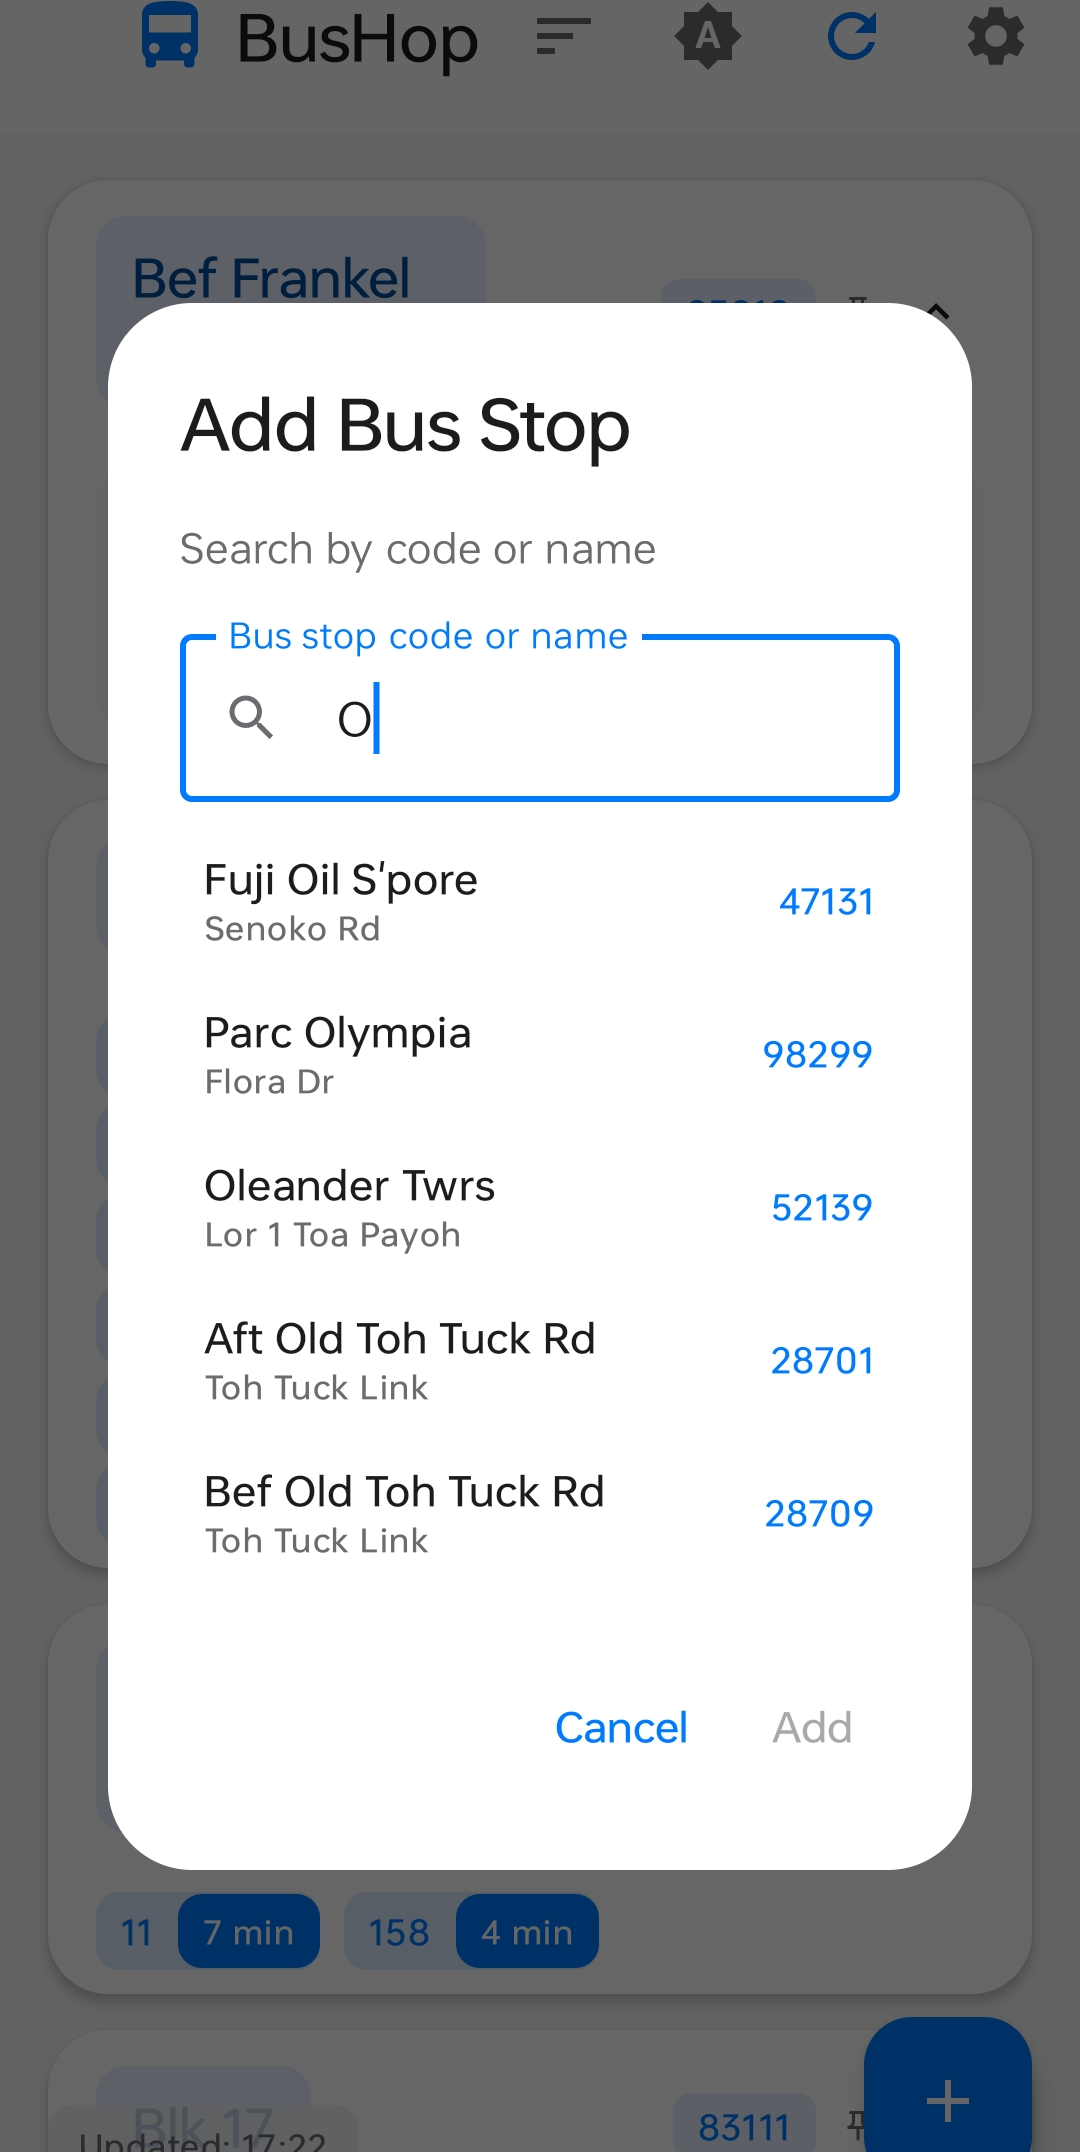
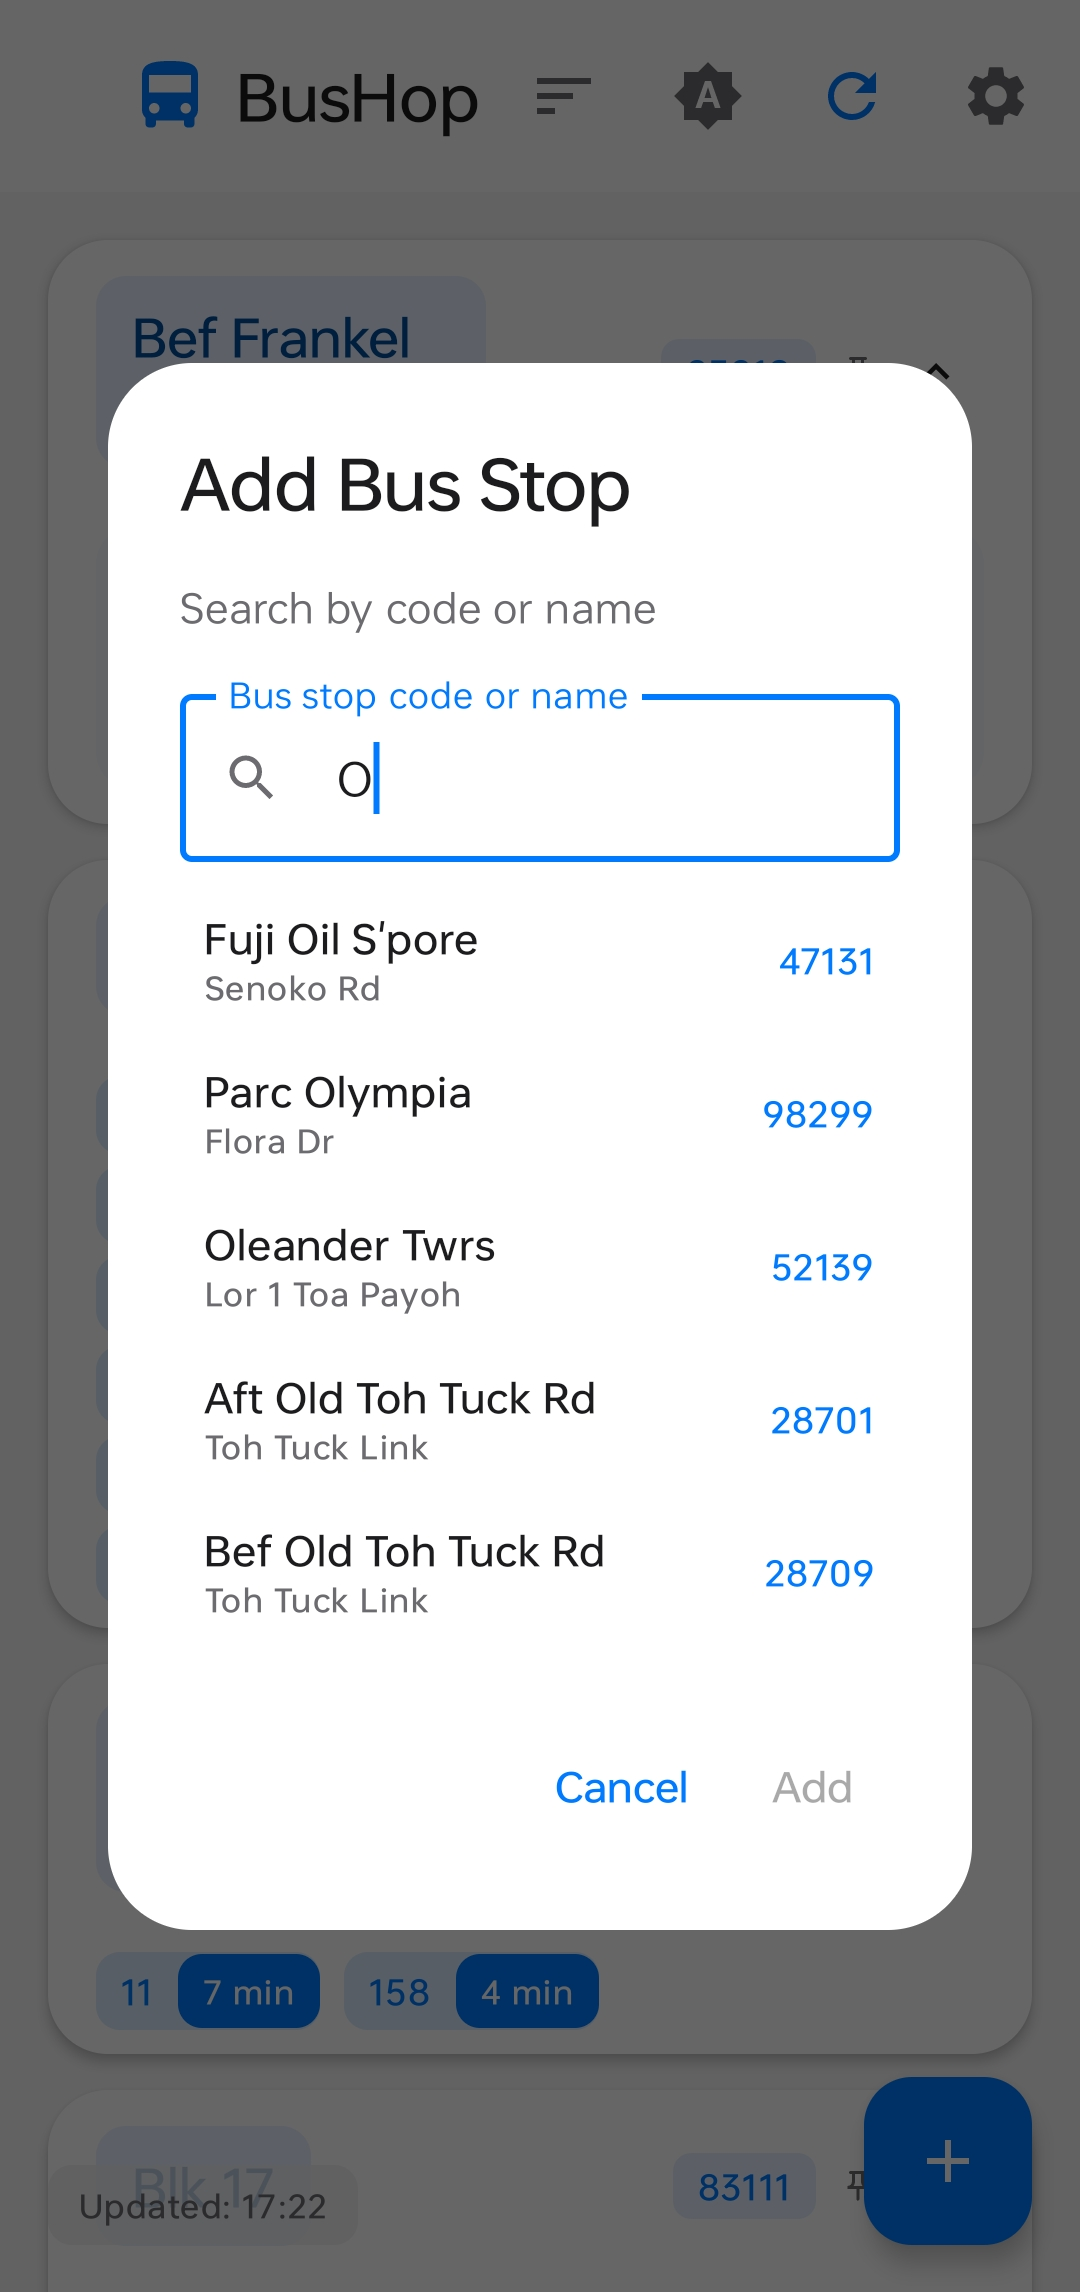
screenshots: use HTML img with matching height so they display equally

diff --git a/README.md b/README.md
@@ -17,10 +17,10 @@
 
 ## Screenshots
 
-| Stops list                                          | Search dialog                                            |
-| --------------------------------------------------- | -------------------------------------------------------- |
-| _Pinned stops at top, arrivals, pull-to-refresh_    | _TokenTrie O(k) search — instant, no network_            |
-| ![Stops list](docs/screenshots/screenshot_main.jpg) | ![Search dialog](docs/screenshots/screenshot_search.png) |
+| Stops list | Search dialog |
+| ---------- | ------------- |
+| _Pinned stops at top, arrivals, pull-to-refresh_ | _TokenTrie O(k) search — instant, no network_ |
+| <img src="docs/screenshots/screenshot_main.jpg" height="500"> | <img src="docs/screenshots/screenshot_search.png" height="500"> |
 
 ## Features
 